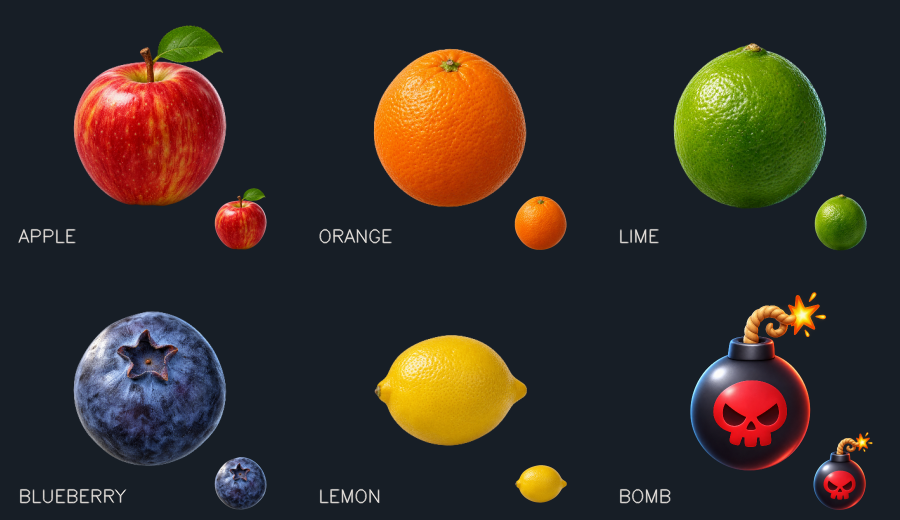
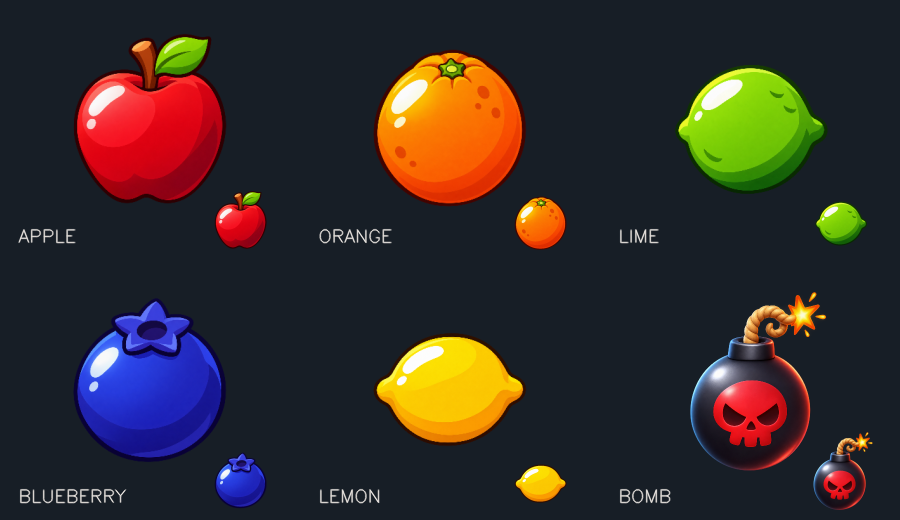
Replace fruit art with comic sprites and add generated laser sword (#84)

diff --git a/fruit-ninja-cv/saber_art.py b/fruit-ninja-cv/saber_art.py
@@ -1,0 +1,56 @@
+"""Cached laser-sword artwork: blade and grip fit independent tracked segments."""
+from functools import lru_cache
+import json
+import logging
+from pathlib import Path
+import numpy as np
+import cv2
+from utils import imread
+from suit_rig import Sprite, alpha_over, segment_transform
+
+logger=logging.getLogger(__name__)
+ASSET_DIR=Path(__file__).resolve().parent/'weapon_assets'
+
+
+@lru_cache(maxsize=1)
+def load_parts():
+    try:
+        meta=json.loads((ASSET_DIR/'laser-sword.json').read_text(encoding='utf-8'))
+        image=imread(ASSET_DIR/'laser-sword.png',cv2.IMREAD_UNCHANGED)
+        if image is None or image.ndim!=3 or image.shape[2]!=4:
+            raise ValueError('Missing RGBA laser sword')
+        result={}
+        for name in ('blade','hilt'):
+            part=image.copy()
+            seam=int(meta['emitter'][1])
+            if name=='blade':
+                part[seam:,:,3]=0
+                # Keep generated cyan spill bounded around the tracked blade;
+                # the procedural halo below remains responsive to pen colour.
+                distance=np.abs(np.arange(image.shape[1])-meta['tip'][0])
+                support=np.clip((1.5-distance/meta['blade_width'])/.75,0,1)
+                part[:,:,3]=np.rint(part[:,:,3]*support[None,:]).astype(np.uint8)
+            else:part[:seam,:,3]=0
+            anchors=np.float32([meta['tip'],meta['emitter']] if name=='blade' else
+                               [meta['emitter'],meta['pommel']])
+            result[name]=(Sprite.prepare(part),anchors,float(meta[name+'_width']))
+        return result
+    except (OSError,ValueError,KeyError,TypeError):
+        logger.warning('Laser sword artwork unavailable; using procedural weapon',exc_info=True)
+        return None
+
+
+def part_matrix(anchors,start,end,source_width,target_width):
+    return segment_transform(anchors,start,end,target_width,source_width)
+
+
+def draw(frame,saber,scale):
+    parts=load_parts()
+    if parts is None:
+        return False
+    for name,start,end,width in [('blade',saber.tip,saber.hilt_top,24),
+                                 ('hilt',saber.hilt_top,saber.hilt_bottom,26)]:
+        sprite,anchors,source_width=parts[name]
+        matrix=part_matrix(anchors,start,end,source_width,max(3,width*scale))
+        alpha_over(frame,sprite,matrix)
+    return True

diff --git a/fruit-ninja-cv/tools/preview_comic_art.py b/fruit-ninja-cv/tools/preview_comic_art.py
@@ -1,0 +1,41 @@
+"""Reproduce the packaged comic fruit / sword previews without webcam or GUI."""
+from pathlib import Path
+import sys,json,time,statistics
+ROOT=Path(__file__).resolve().parents[1]
+sys.path.insert(0,str(ROOT));sys.path.insert(0,str(Path(__file__).parent))
+import cv2
+import numpy as np
+import lightsaber
+from preview_fruits import main as preview_fruits
+
+
+def main():
+    preview_fruits()
+    dest=ROOT.parent/'docs/comic-art-84';dest.mkdir(parents=True,exist_ok=True)
+    rows=[]
+    poses=[('Vertical',lightsaber.Saber((150,45),(150,300),(150,390))),
+           ('Horizontal',lightsaber.Saber((60,200),(235,200),(300,200))),
+           ('Diagonal',lightsaber.Saber((310,70),(120,270),(60,330)))]
+    for title,pose in poses:
+        tile=np.full((440,360,3),(38,28,20),np.uint8)
+        lightsaber.draw_saber(tile,pose,(240,210,50))
+        cv2.putText(tile,title,(20,420),cv2.FONT_HERSHEY_SIMPLEX,.6,(225,230,235),1,cv2.LINE_AA)
+        rows.append(tile)
+    cv2.imwrite(str(dest/'laser-sword-poses.png'),np.hstack(rows))
+    game=cv2.imread(str(ROOT.parent/'docs/fruit-previews/game-preview.png'))
+    lightsaber.draw_saber(game,lightsaber.Saber((700,275),(490,410),(435,445)),(240,210,50))
+    cv2.imwrite(str(dest/'game-preview.png'),game)
+    frame=np.zeros((540,960,3),np.uint8);pose=poses[2][1]
+    for _ in range(5):lightsaber.draw_saber(frame.copy(),pose,(240,210,50))
+    timings=[]
+    for _ in range(80):
+        image=frame.copy();start=time.perf_counter()
+        lightsaber.draw_saber(image,pose,(240,210,50))
+        timings.append((time.perf_counter()-start)*1000)
+    measurements=dict(stage='draw_saber',iterations=80,frame=[960,540],
+        median_ms=round(statistics.median(timings),3),p95_ms=round(float(np.percentile(timings,95)),3),
+        camera=False,display=False)
+    (dest/'measurements.json').write_text(json.dumps(measurements,indent=2),encoding='utf-8')
+    print(json.dumps(measurements))
+
+if __name__=='__main__':main()

diff --git a/fruit-ninja-cv/tests/test_saber_art.py b/fruit-ninja-cv/tests/test_saber_art.py
@@ -1,0 +1,40 @@
+"""Generated laser-sword rendering keeps the existing tip/emitter/grip anchors."""
+import cv2
+import numpy as np
+import pytest
+import lightsaber
+import saber_art
+
+
+@pytest.mark.parametrize('points',[
+    ((120,40),(120,190),(120,245)),
+    ((40,100),(190,100),(245,100)),
+    ((230,40),(130,170),(95,215)),
+])
+def test_artwork_parts_map_to_the_actual_weapon_pose(points):
+    parts=saber_art.load_parts()
+    assert parts is saber_art.load_parts()
+    saber=lightsaber.Saber(*points)
+    for name,start,end in [('blade',saber.tip,saber.hilt_top),('hilt',saber.hilt_top,saber.hilt_bottom)]:
+        sprite,anchors,width=parts[name]
+        matrix=saber_art.part_matrix(anchors,start,end,width,24)
+        assert np.allclose(cv2.transform(anchors[None],matrix)[0],(start,end),atol=1e-4)
+        assert sprite.image.shape[2]==4 and sprite.image[0,0,3]==0
+
+
+def test_generated_saber_uses_alpha_and_clips_offscreen():
+    frame=np.full((300,320,3),28,np.uint8);before=frame.copy()
+    saber=lightsaber.Saber((160,30),(160,180),(160,245))
+    assert saber_art.draw(frame,saber,1.)
+    assert np.array_equal(frame[:,0:30],before[:,0:30])
+    assert np.any(frame[190:235,150:170]!=28)
+    assert saber_art.draw(frame,lightsaber.Saber((-5,-80),(-5,70),(-5,130)),1.)
+
+
+def test_missing_artwork_keeps_the_existing_weapon_visible(monkeypatch):
+    monkeypatch.setattr(saber_art,'load_parts',lambda:None)
+    frame=np.zeros((300,320,3),np.uint8)
+    saber=lightsaber.Saber((160,30),(160,180),(160,245))
+    lightsaber.draw_saber(frame,saber,(255,0,0))
+    assert frame[90,160].min()>200
+    assert frame[210,160].any()

diff --git a/fruit-ninja-cv/lightsaber.py b/fruit-ninja-cv/lightsaber.py
@@ -26,6 +26,7 @@ import cv2
 import numpy as np
 
 import config
+import saber_art
 
 logger = logging.getLogger(__name__)
 
@@ -315,6 +316,10 @@ def draw_saber(frame, saber, color):
     # blade: wide soft glow, tighter bright glow, thick white-hot core (round tip)
     _add_glow(frame, tip, emitter, color, max(4, int(44 * s)), max(1.0, 14 * s))
     _add_glow(frame, tip, emitter, color, max(3, int(24 * s)), max(1.0, 5 * s))
+    if saber_art.draw(frame, saber, s):
+        # Keep the sharp gameplay tip and white core readable at small sizes.
+        cv2.line(frame, tip, emitter, (255, 255, 255), max(3, int(12 * s)), cv2.LINE_AA)
+        return frame
     cv2.line(frame, tip, emitter, (255, 255, 255), max(3, int(12 * s)), cv2.LINE_AA)
 
     # hilt along the saber axis: dark metal grip with ridges, bright emitter ring

diff --git a/Architektur.md b/Architektur.md
@@ -59,6 +59,20 @@ Kamera ─► main (Loop, States, Input)
 5. `Game.draw` + `Blade.draw` + HUD zeichnen ins Frame; `main` zeigt es an.
 
 ## Architekturentscheidungen (ADR-Kurzform)
+- **Comic-Grafiken und Laserschwert (#84, 26.11.2026).** Die fünf Frucht-PNGs
+  wurden mit dem eingebauten Bildgenerator durch Comic-Sprites mit Konturen und
+  Cel-Shading ersetzt. Körperanker, Größen-Cache und Schnittdarstellung bleiben
+  erhalten. Die freigegebene Bombe bleibt bytegenau unverändert. Prompts und
+  SHA-256-Werte stehen in `fruit_assets/generation.json`. Das separat generierte
+  Schwert liegt in `weapon_assets/laser-sword.png` mit Pixelankern/Prompt in JSON.
+  `saber_art.py` bereitet zwei Alpha-Teile einmalig vor und nutzt die vorhandenen
+  Affin-/ROI-Hilfen aus `suit_rig.py`: Klinge folgt Spitze→Emitter, Griff folgt
+  Emitter→Knauf. Dadurch passen auch wechselnde Klingen-/Grifflängen. Ein weich
+  begrenzter generierter Lichtsaum vermeidet große Glow-Flächen; der bestehende
+  dynamische Halo und weiße Kern bleiben. Erkennung und Kollisionsmodell ändern
+  sich nicht. Bei fehlenden Assets bleibt die prozedurale Waffe verfügbar, mit
+  einmaligem Logeintrag. Reproduzierbare Posen-, Spiel- und Laufzeitvorschauen:
+  `python tools/preview_comic_art.py`; keine Kamera/Anzeige erforderlich.
 - **Asynchrone Inferenz (#56).** YOLO und Pose teilen sich einen einzigen
   Hintergrund-Worker mit höchstens einem wartenden Auftrag je Typ. Neue Bilder
   ersetzen wartende Bilder; es gibt keine FIFO-Bildschlange. Nur der Worker

diff --git a/fruit-ninja-cv/weapon_assets/README.md b/fruit-ninja-cv/weapon_assets/README.md
@@ -1,0 +1,23 @@
+# Generiertes Laserschwert
+
+`laser-sword.png` wurde mit dem eingebauten `image_gen` einmalig am 26.11.2026
+erzeugt: geradlinige cyanfarbene Energieklinge und ein dunkler Comic-Metallgriff
+mit silbernen Ringen und leuchtenden Akzenten. Vollständiger Prompt, SHA-256-Werte
+und Pixelanker stehen in `laser-sword.json`. Das generierte RGBA wurde unter
+Erhalt der Transparenz auf 512×768 verkleinert; es wird lokal geladen.
+
+Die Renderer teilen die Grafik am Emitter in Klinge und Griff und passen beide
+mit getrennten Affintransformationen an die vorhandene Waffenpose an. Der
+generierte äußere Glanz wird beim Laden weich auf die Umgebung der Klinge
+begrenzt; der bestehende dynamische Halo ergänzt die aktuelle Stiftfarbe. Der
+weiße Kern und die Klingen-Spitze bleiben gut lesbar. Spitze und Griff folgen
+unverändert dem bisherigen Tracking. Die Trefferauswertung verwendet weiterhin
+den Stiftpunkt, nicht den Lichtschein oder die neue Bildfläche.
+
+Einmaliger Ladecache, ROI-Compositing und vorhandene OpenCV-Abhängigkeit; kein
+Netzwerk oder Bildgenerator zur Laufzeit. Bei fehlender Grafik wird die
+prozedurale Waffe mit einmaligem Logeintrag gezeichnet.
+
+`python tools/preview_comic_art.py` im Programmordner erzeugt Galerie, Schnitte,
+Schwertrotationen und Messwerte ohne Webcam. Eine neue Live-Abnahme wurde nicht
+durchgeführt.

diff --git a/fruit-ninja-cv/README.md b/fruit-ninja-cv/README.md
@@ -21,9 +21,14 @@ Entwickelt **inkrementell-iterativ** und **test-case-basiert**.
   `ASYNC_INFERENCE=False` erlaubt Vergleichsläufe mit dem synchronen Pfad.
   Reproduzierbarer Offline-Vergleich: `python tools/benchmark_async_inference.py`;
   Grenzen und Messwerte stehen in `docs/async-inference-56/README.md`.
-- 🍊 **Neue Fruchtgrafiken:** realistische lokale PNGs für Apfel, Orange, Limette,
-  Blaubeere und Zitrone sowie eine plastische Spielbombe; auch die Schnittanimation
+- 🍊 **Comic-Fruchtgrafiken:** lokale PNGs mit kräftigen Konturen für Apfel, Orange,
+  Limette, Blaubeere und Zitrone sowie die bewährte Spielbombe; auch die Schnittanimation
   verwendet die neuen Grafiken. Keine zusätzlichen Downloads nötig.
+- **Laserschwert-Grafik:** generierte cyanfarbene Energieklinge und dunkler
+  Metallgriff mit leuchtenden Akzenten, an Spitze/Emitter/Griff der bestehenden
+  Waffenpose ausgerichtet. Steuerung und Trefferlogik bleiben gleich. Fehlt die
+  Grafik, greift die bisherige Darstellung. Vorschau ohne Kamera:
+  `python tools/preview_comic_art.py` (Bilder unter `docs/comic-art-84/`).
 - 🎯 **Farb-Tracking** mit festen Bereichen (keine Kalibrierung nötig).
 - 🏠 **Startmenü:** standardmäßig **Pink** aktiv (nur Pink wird getrackt). Spiel per
   Stift (**Dwell**) starten; Quit ebenfalls per Stift.

diff --git a/fruit-ninja-cv/fruit_assets/README.md b/fruit-ninja-cv/fruit_assets/README.md
@@ -1,7 +1,9 @@
 # Fruchtgrafiken
 
-Einmalig am 26.11.2026 mit dem eingebauten `image_gen` erzeugte Grafiken:
-Apfel, Orange, Limette, Blaubeere, Zitrone und eine stilisierte 3D-Spielbombe.
+Am 26.11.2026 mit dem eingebauten `image_gen` erzeugte Grafiken:
+Apfel, Orange, Limette, Blaubeere und Zitrone jetzt im Comic-Spielstil mit
+kräftigen Konturen und Cel-Shading. Sie ersetzen die zuvor fotorealistischen
+Früchte. Die bereits freigegebene stilisierte 3D-Spielbombe ist unverändert.
 Kein Bildgenerator, Netzwerkzugriff oder neues Paket ist zur Laufzeit erforderlich.
 Der erste realistische Bombenentwurf wurde vom Generator abgelehnt; verwendet
 wird die anschließend erfolgreich erzeugte, klar fiktive Spielgrafik.
